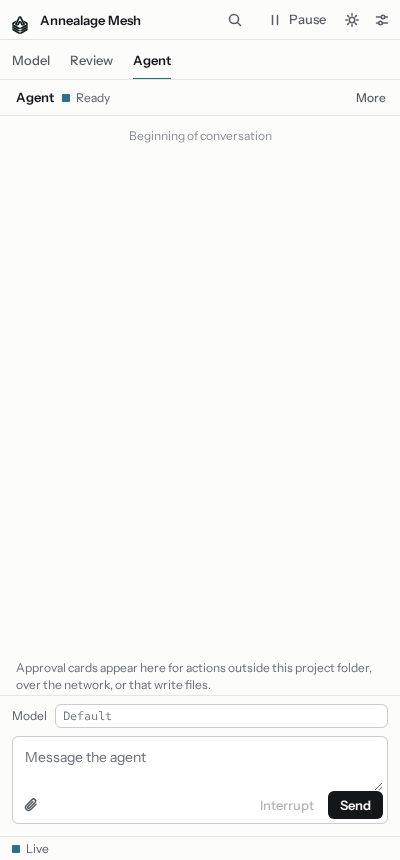
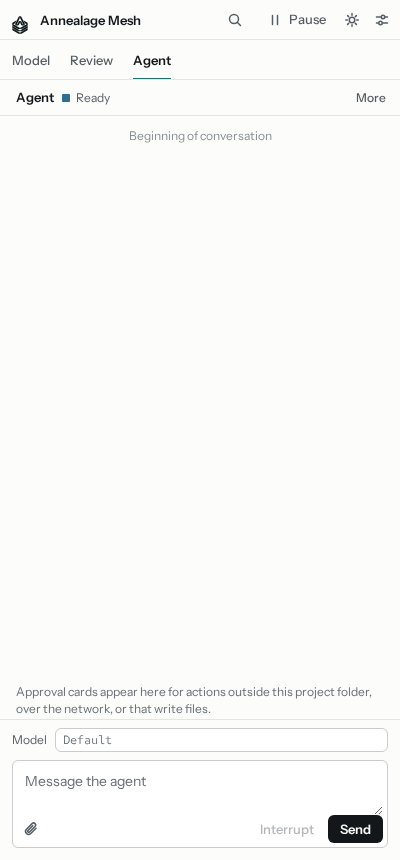
Vendor the style library at 7ce560a: account menu script
Adds account.js. The pin bump itself moves two baselines: the phone Agent tab
now hides the status bar (frame.js sets data-agent-open), so
mesh-phone-agent-light-400 and mesh-phone-agent-dark-400 are taken again here.

Changed region(s): [[0.03, 0.7558, 0.96, 0.9977], [0.81, 0.907, 0.96, 0.9977], [0.63, 0.9372, 0.78, 0.9977]]

diff --git a/src/annealage_mesh/style/account.js b/src/annealage_mesh/style/account.js
@@ -1,0 +1,204 @@
+// The account menu and the product switch of a title bar, for a page served by Annealage hosted.
+//
+// Load it as a classic script at the end of <body>; it draws by itself once the page has
+// parsed:
+//   <script src="/style/account.js"></script>
+// and give the title bar its places. Both are optional, and a page with neither makes no request:
+//   <span class="menuwrap" data-account-menu></span>      last item of .tb-right: the account menu
+//   <nav class="prodtabs" data-product-switch></nav>       the product tabs, for pages outside a workbench
+// A placeholder may carry `hidden`; it is shown once it is filled. The script adds the missing
+// class and aria-label itself.
+//
+// It makes one GET of /_front/me (hosted answers it on every product host; `data-src` on the
+// first placeholder names another URL) with the page's own cookie, and fills the places from
+// the answer: the signed-in name, the email, Account, Security, a "Products" group of links and
+// Sign out. Where there is no answer (a standalone run, a public or capability visitor, a
+// failed or slow request, scripts off) nothing is drawn and nothing is reported: the places stay
+// empty. The page's title bar does not shift until the answer is in.
+//
+// The menu is the one of demo/workbench.html and demo/list.html: a .menuwrap with a
+// [data-menu] button and a .menu. This script toggles data-open on the .menuwrap and
+// aria-expanded on the button itself, and closes it on a click outside and on Escape, so a
+// page that has its own generic [data-menu] handler (demo/demo.js has) must not load it:
+// the two would toggle the same menu twice. The "Products" group is left out when the page has
+// a [data-product-switch] place, and when the deployment serves one product only.
+//
+// Sign out posts to the URL the answer names (this host's /auth/logout), then goes to "/".
+// A failure shows "Couldn't sign out. Try again." in the menu and leaves the page as it was.
+//
+// A page that draws its title bar later (a component that renders after the page has parsed)
+// calls annealageAccount.draw(root) once the places exist; it fills the empty ones under root
+// (default the document) from the same one answer.
+//
+// The icons come from icons.svg beside this script (its own src, with account.js swapped for
+// icons.svg); `data-icons` on the place names another sprite.
+//
+// Names and emails are put in with textContent, links only when their URL is http, https or
+// relative; there is no inline script or style, so script-src 'self' and connect-src 'self'
+// are enough.
+(function () {
+  "use strict";
+  var ME = "/_front/me";
+  var SVG = "http://www.w3.org/2000/svg";
+  var own = document.currentScript && document.currentScript.getAttribute("src");
+  var SPRITE = own && /account\.js(\?.*)?$/.test(own) ? own.replace(/account\.js(\?.*)?$/, "icons.svg") : "/style/icons.svg";
+
+  function el(tag, attrs, text) {
+    var e = document.createElement(tag);
+    for (var k in attrs) e.setAttribute(k, attrs[k]);
+    if (text != null) e.textContent = text;
+    return e;
+  }
+  function icon(sprite, name, cls) {
+    var svg = document.createElementNS(SVG, "svg");
+    svg.setAttribute("class", cls);
+    var use = document.createElementNS(SVG, "use");
+    use.setAttribute("href", sprite + "#" + name);
+    svg.appendChild(use);
+    return svg;
+  }
+  // An http, https or relative URL, else null: a page's own script cannot reach here with
+  // a javascript: link, but the answer is data from the network all the same.
+  function safe(url) {
+    if (typeof url !== "string" || !url) return null;
+    try {
+      var p = new URL(url, window.location.href).protocol;
+      return p === "http:" || p === "https:" ? url : null;
+    } catch (e) {
+      return null;
+    }
+  }
+
+  function valid(me) {
+    return !!me && typeof me === "object" && me.v === 1 && typeof me.display === "string";
+  }
+
+  function fillSwitch(nav, me) {
+    if (!me.products || !me.products.length) return;
+    var any = false;
+    nav.classList.add("prodtabs");
+    if (!nav.getAttribute("aria-label")) nav.setAttribute("aria-label", "Product");
+    me.products.forEach(function (p) {
+      var url = safe(p && p.url);
+      if (!url || typeof p.name !== "string") return;
+      var a = el("a", { href: url }, p.name);
+      if (p.current === true) a.setAttribute("aria-current", "page");
+      nav.appendChild(a);
+      any = true;
+    });
+    if (any) nav.removeAttribute("hidden");
+  }
+
+  function fillMenu(wrap, me, withProducts) {
+    var sprite = wrap.getAttribute("data-icons") || SPRITE;
+    var name = me.display || me.email || "Account";
+    wrap.classList.add("menuwrap");
+    var button = el("button", {
+      "class": "btn", type: "button", "data-menu": "", "aria-haspopup": "menu", "aria-expanded": "false",
+      "aria-label": "Account menu, " + name,
+    });
+    button.appendChild(icon(sprite, "i-user", "ico"));
+    button.appendChild(el("span", { "class": "wide" }, name));
+    button.appendChild(icon(sprite, "i-chev-d", "ico ico--sm"));
+    var menu = el("span", { "class": "menu", role: "menu" });
+    if (typeof me.email === "string" && me.email) menu.appendChild(el("span", { "class": "menu-note" }, me.email));
+    var account = safe(me.account_url), security = safe(me.security_url);
+    if (account) menu.appendChild(el("a", { role: "menuitem", href: account }, "Account"));
+    if (security) menu.appendChild(el("a", { role: "menuitem", href: security }, "Security"));
+    var products = (withProducts && Array.isArray(me.products) ? me.products : []).filter(function (p) {
+      return p && typeof p.name === "string" && safe(p.url);
+    });
+    if (products.length > 1) {
+      menu.appendChild(el("hr", {}));
+      menu.appendChild(el("span", { "class": "menu-note" }, "Products"));
+      products.forEach(function (p) {
+        var a = el("a", { role: "menuitem", href: p.url }, p.name);
+        if (p.current === true) a.setAttribute("aria-current", "page");
+        menu.appendChild(a);
+      });
+    }
+    var out = me.signout;
+    var signout = null;
+    if (out && out.method === "POST" && typeof out.url === "string" && out.url.charAt(0) === "/" && out.url.charAt(1) !== "/") {
+      menu.appendChild(el("hr", {}));
+      signout = el("button", { type: "button", role: "menuitem" }, "Sign out");
+      menu.appendChild(signout);
+    }
+    wrap.appendChild(button);
+    wrap.appendChild(menu);
+    wrap.removeAttribute("hidden");
+
+    function close() {
+      wrap.removeAttribute("data-open");
+      button.setAttribute("aria-expanded", "false");
+    }
+    button.addEventListener("click", function () {
+      var open = !wrap.hasAttribute("data-open");
+      if (open) wrap.setAttribute("data-open", "");
+      else wrap.removeAttribute("data-open");
+      button.setAttribute("aria-expanded", String(open));
+    });
+    document.addEventListener("click", function (e) {
+      if (wrap.hasAttribute("data-open") && !wrap.contains(e.target)) close();
+    });
+    document.addEventListener("keydown", function (e) {
+      if (e.key !== "Escape" || !wrap.hasAttribute("data-open")) return;
+      close();
+      button.focus();
+    });
+
+    if (!signout) return;
+    var failed = null;
+    signout.addEventListener("click", function () {
+      if (signout.disabled) return;
+      signout.disabled = true;
+      if (failed) { menu.removeChild(failed); failed = null; }
+      fetch(out.url, { method: "POST", credentials: "same-origin", headers: { Accept: "application/json" } })
+        .then(function (r) {
+          if (!r.ok) throw new Error("sign out refused");
+          window.location.assign("/");
+        })
+        .catch(function () {
+          signout.disabled = false;
+          failed = el("span", { "class": "menu-note", role: "alert" }, "Couldn't sign out. Try again.");
+          menu.appendChild(failed);
+        });
+    });
+  }
+
+  var answers = {};
+  function load(url) {
+    if (!answers[url]) {
+      answers[url] = fetch(url, { credentials: "same-origin", cache: "no-store", headers: { Accept: "application/json" } })
+        .then(function (r) { return r.ok ? r.json() : null; })
+        .then(function (me) { return valid(me) ? me : null; })
+        .catch(function () { return null; });
+    }
+    return answers[url];
+  }
+
+  function empty(list) {
+    return Array.prototype.filter.call(list, function (e) { return !e.children.length; });
+  }
+
+  // Fill the empty places under `root` (default the document). One request serves them all, and
+  // a later call reuses its answer.
+  function draw(root) {
+    if (typeof fetch !== "function") return;
+    root = root || document;
+    var menus = empty(root.querySelectorAll("[data-account-menu]"));
+    var tabs = empty(root.querySelectorAll("[data-product-switch]"));
+    var first = menus[0] || tabs[0];
+    if (!first) return;
+    load(first.getAttribute("data-src") || ME).then(function (me) {
+      if (!me) return;
+      var hasSwitch = !!document.querySelector("[data-product-switch]");
+      menus.forEach(function (m) { if (!m.children.length) fillMenu(m, me, !hasSwitch); });
+      tabs.forEach(function (n) { if (!n.children.length) fillSwitch(n, me); });
+    });
+  }
+
+  window.annealageAccount = { draw: draw };
+  if (document.readyState === "loading") document.addEventListener("DOMContentLoaded", function () { draw(); });
+  else draw();
+})();

diff --git a/src/annealage_mesh/style/theme.css b/src/annealage_mesh/style/theme.css
@@ -371,6 +371,8 @@ a.state:hover { text-decoration-color: var(--ink); }
    left and top from script, and it shows while it is in the page. <span class="menu at" role="menu"> */
 .menu.at { position: fixed; top: auto; right: auto; display: block; }
 .menu .menu-note { display: block; padding: 6px 8px 4px; color: var(--ink-3); font-size: var(--fs-small); }
+.menu .menu-note[role=alert] { color: var(--danger); }
+.menu a[aria-current] { font-weight: 600; }
 details.more { position: relative; }
 details.more > summary { list-style: none; }
 details.more > summary::-webkit-details-marker { display: none; }
@@ -884,6 +886,8 @@ body:not(.panel-open) .wb[data-insp=left] .half:first-child > .vhead { padding-l
 @media (min-width: 901px) and (max-width: 1200px) {
   .wb[data-insp=left] .titlebar .cmd { width: 150px; }
   .wb[data-insp=left] .titlebar .cmd kbd { display: none; }
+  /* The account menu (account.js) keeps its icon and drops the name, so the bar's controls fit. */
+  .titlebar .tb-right .menuwrap > [data-menu] .wide { display: none; }
 }
 /* Under 1000px the left layout's command field is its icon, as on a phone, so the bar's controls fit. */
 @media (min-width: 901px) and (max-width: 1000px) {
@@ -1864,7 +1868,15 @@ html .pj-modal {
      reachable from any pane. Everything else in it is dropped. */
   .wb > .statusbar > :not(.conn, .alert) { display: none; }
   .wb > .statusbar { gap: 12px; }
-  .wb > .statusbar .alert { margin-left: auto; min-width: 0; overflow: hidden; text-overflow: ellipsis; }
+  /* The connection is its lamp alone here (the word is still there for a screen
+     reader), so a view's own "Live" is not repeated. */
+  .wb > .statusbar .conn { font-size: 0; }
+  /* A block, not a flex box, so a long label ends in an ellipsis. The element is
+     24px high (the tap target) with the 18px chamfered fill inset inside it. */
+  .wb > .statusbar .alert { display: block; margin-left: auto; min-width: 0; max-width: 100%; height: var(--h-status); padding-block: 3px; line-height: 18px; overflow: hidden; text-overflow: ellipsis; }
+  .wb > .statusbar .alert::before { inset: 3px 0; }
+  /* On the Agent tab the pane shows the connection and the approval itself. */
+  .wb[data-agent-open] > .statusbar { display: none; }
   .titlebar:has(> .tb-left) { grid-template-columns: minmax(0, 1fr) auto; gap: 8px; }
   .titlebar:has(> .tb-left):has(> .cmd) { grid-template-columns: minmax(0, 1fr) auto auto; }
   .tb-left { min-width: 0; }

diff --git a/src/annealage_mesh/style/frame.js b/src/annealage_mesh/style/frame.js
@@ -20,6 +20,8 @@
 //   [data-panel-close]                       closes the panel
 //   #tabbar                                  the phone tab bar, role="tablist"
 //     button[data-tab="id"][data-target="selector"]   one tab per pane (aria-selected)
+//   .statusbar .alert                        the approval alert: a click shows the Agent tab at 900px and below
+//   .wb[data-agent-open]                     set by frame.js while the Agent tab is showing (the status bar hides)
 //   .split.even > .half + .half              a view split in two halves with a handle between them
 //
 // Settings, kept in localStorage per origin and per product (<html data-product>,
@@ -220,10 +222,15 @@
         b.setAttribute("aria-selected", String(b.getAttribute("data-tab") === active));
       });
       var narrow = isNarrow();
+      var chat = doc.querySelector("#chat");
+      var agentOpen = false;
       tabs.forEach(function (t) {
         var el = t.target ? doc.querySelector(t.target) : null;
         if (el) el.style.display = narrow && t.id !== active ? "none" : "";
+        if (el && el === chat && narrow && t.id === active) agentOpen = true;
       });
+      if (agentOpen) root.setAttribute("data-agent-open", "");
+      else root.removeAttribute("data-agent-open");
     }
     function activateTab(id) {
       if (!tabs.some(function (t) { return t.id === id; })) return;

diff --git a/tests/test_packaging.py b/tests/test_packaging.py
@@ -131,6 +131,7 @@ def test_wheel_and_sdist_ship_the_vendored_style_and_its_licences(tmp_path):
         "theme.css",
         "scheme.js",
         "frame.js",
+        "account.js",
         "palette.js",
         "confirm.js",
         "icons.svg",
